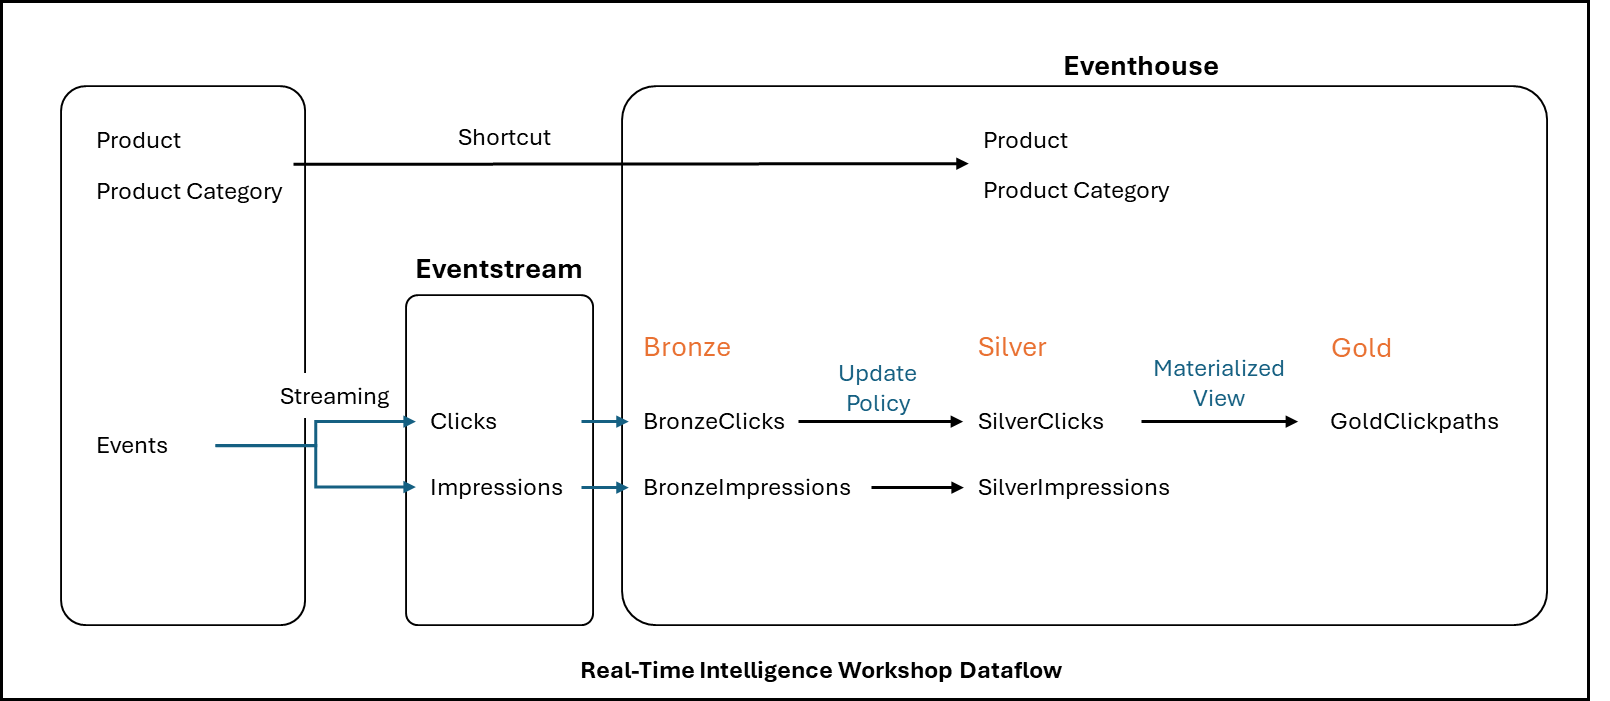
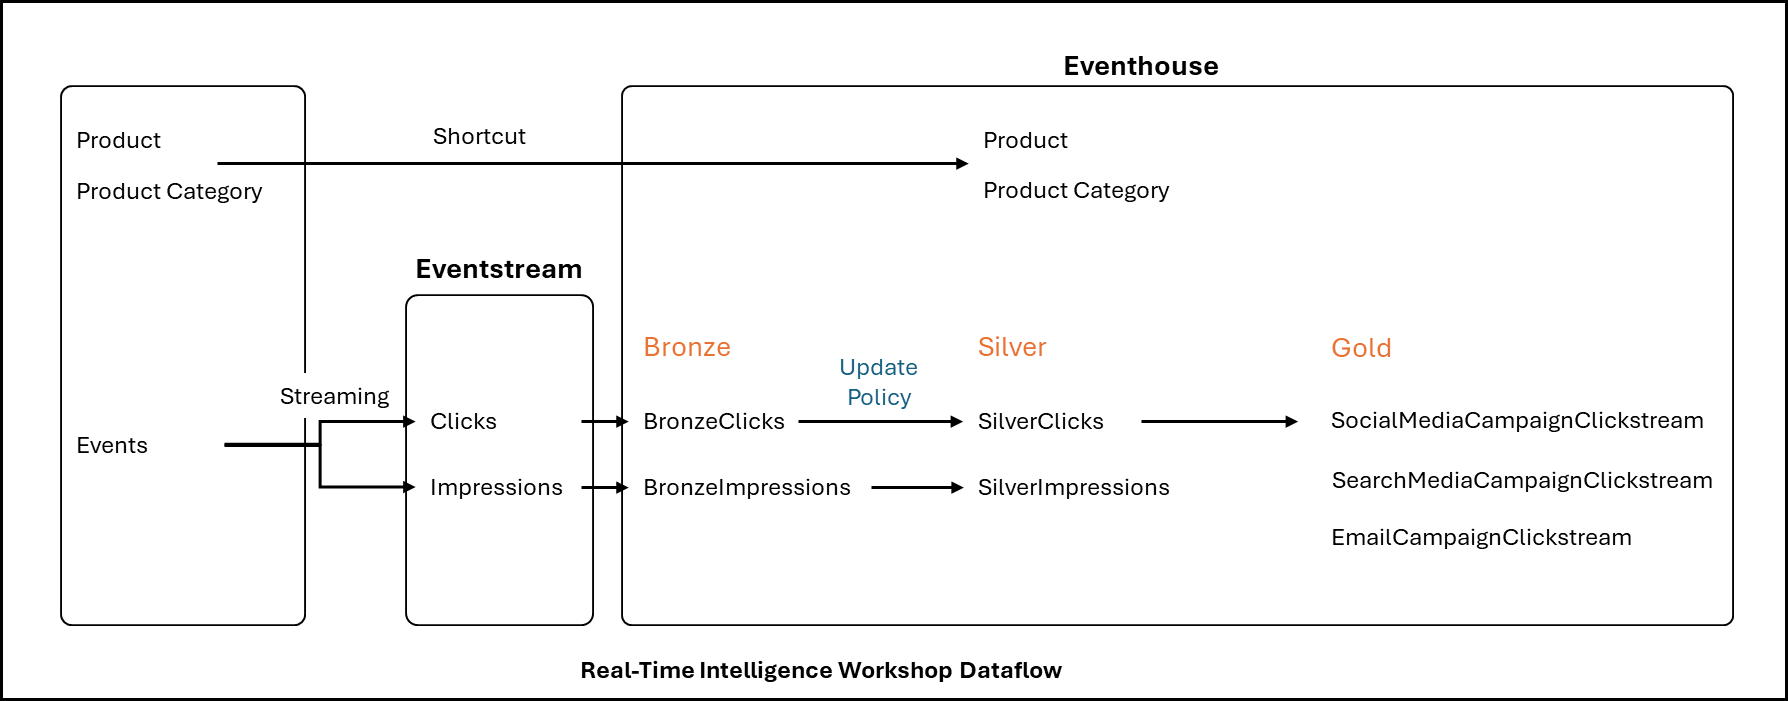
Formatting changes

diff --git a/docs/workshop.md b/docs/workshop.md
@@ -238,19 +238,20 @@ Now with Data Activator (Reflex), we can also set alerts on Real-time Dashboards
 | **Product**         | **Shortcut** to OneLake delta table | Products, including descriptions and prices. |
 | **ProductCategory** | **Shortcut** to OneLake delta table | Product category.                            |
 
-### Functions
+### Transformation Functions
 
 | Function                  | Description                                                                 |
 | ------------------------- | --------------------------------------------------------------------------- |
 | **expandClickpath**       | Expands JSON array of dictonaries to transform into strongly typed columns. |
 | **expandRelatedProducts** | Expands JSON array of dictonaries to transform into strongly typed columns  |
 
-### Materialized-Views
+### Functions as Views
 
 | View            | Origin                  | Description                                                                                                                   |
 | --------------- | ----------------------- | ----------------------------------------------------------------------------------------------------------------------------- |
-| **ToBeDefined** | Eventhouse silver table | Materialized view showing only the **latest** changes in the source table showing how to handle duplicate or updated records. |
-| **ToBeDefined** | Eventhouse silver table | Materialized view showing only the **latest** changes in the source table showing how to handle duplicate or updated records. |
+| **SocialMediaCampaignClickstream** | Eventhouse gold function | Function showing clickstream originating due to social media campaigns |
+| **SearchMediaCampaignClickstream** | Eventhouse gold function | Function showing clickstream originating due to campaigns on search engines |
+| **EmailCampaignClickstream** | Eventhouse gold function | Function showing clickstream originating due to email campaigns |
 
 ---
 
@@ -259,10 +260,23 @@ Now with Data Activator (Reflex), we can also set alerts on Real-time Dashboards
 - Recommended material to review (at least one) prior to this lab, however it's not required:
   - [Write your first query with Kusto](https://aka.ms/learn.kql)
   - [Implement a Real-Time Intelligence Solution Tutorial](https://learn.microsoft.com/fabric/real-time-intelligence/tutorial-introduction)
+  - To complete the lab you **must** have access to a [Microsoft Fabric](<https://www.microsoft.com/microsoft-fabric/getting-started>) workspace with at least Contributor permissions.
 
-| :heavy_exclamation_mark: **Important**                                                                                                                                                |
-| :------------------------------------------------------------------------------------------------------------------------------------------------------------------------------------ |
-| **To complete the lab you **must** have access to a [Microsoft Fabric](https://www.microsoft.com/microsoft-fabric/getting-started) workspace with at least Contributor permissions.** |
+### Trial Tenant for the Lab
+If you need a new Trial Tenant to complete the lab, suggest to register a new Outlook.com email and follow these steps:
+1. [Provision Fabric Trial Tenant](<https://github.com/microsoft/FabricRTIWorkshop/tree/main/trialtenant>) - see document and powershell script to setup a lab admin.
+   - 25 workspaces with access to 25 logins will be created automatically (one workspace per user).
+   - Participants should create items in the workspace designated to their own login.
+   - If more than 25 accounts are necessary, additional Trial Tenants can be provisioned by repeating this process again. Also, participants can share the lab credentials and use folders in their workspaces. 
+3. [Office 365 E5 Trial](<https://blog.fabric.microsoft.com/blog/accessing-microsoft-fabric-for-developers-startups-and-enterprises>). ⚠ Make sure to disable recurring billing, otherwise your credit card will be charged for Office E5.
+4. The "LabAdmin" credential should be used by the lab proctor.
+5. The "LabAdmin" can have the pre-built lab items for Lab Users 01-24 to reference as a cheat-sheet. To do so, grant Users 01-24 viewer permission to the "LabAdmin" workspace.
+![WorkspaceManageAccess](assets/WorkspaceManageAccess.png "Workspace Manage Access")
+
+### Enable Real-Time Dashboards (preview)
+1. While logged in as Tenant Admin or Capacity Admin to Fabric, click the gear icon on the top right of the  page to open Admin Portal. Note, the "LabAdmin" account will have access to enable this for the Trial Tenant described above.
+2. In the [Tenant Settings](<https://app.fabric.microsoft.com/admin-portal/tenantSettings?experience=kusto>), search for "dashboards", click the toggle to **Enabled**, click **Apply**.
+![EnableRTDashboards](assets/EnableRTDashboards.png "Enable Real-Time Dashboards")
 
 ### Fabric tenant and capacity for the tutorial
 
@@ -274,9 +288,10 @@ For the purpose of this tutorial, speakers/proctors will provide a tenant with c
 
 ### 1. Login to Lab Environment
 
-| :heavy_exclamation_mark: **Important**                                                                                  |
-| :---------------------------------------------------------------------------------------------------------------------- |
-| **Do **not** use an InPrivate browser window. Recommend using a Personal browser window to successfully run this lab.** |
+<div class="info" data-title="Note">
+  
+> Do **not** use an InPrivate browser window. Recommend using a Personal browser window to successfully run this lab.
+</div>
 
 1. Open [app.fabric.microsoft.com](https://app.fabric.microsoft.com/) in your browser.
 
@@ -291,10 +306,7 @@ For the purpose of this tutorial, speakers/proctors will provide a tenant with c
 ### 2. Fabric Workspace
 
 1. Click **Workspaces** on the left menu and open the Fabric Workspace **designated** to your login by the Fabric Trial Tenant.
-
-| :notebook: **Note**                                                                  |
-| :----------------------------------------------------------------------------------- |
-| **(Optional) If using your own Fabric Tenant, create a new workspace for this lab.** |
+2. (Optional) If using your own Fabric Tenant, create a new workspace for this lab. 
 
 1. To create a new Workspace click on **Workspaces** in the left pane and then click on **+ New Workspace** in the popup window.
 
@@ -304,9 +316,9 @@ For the purpose of this tutorial, speakers/proctors will provide a tenant with c
 
    ![alt text](assets/image_task02_step02.png)
 
-   | :notebook: **Note**                                                                                                                                                                         |
-   | :------------------------------------------------------------------------------------------------------------------------------------------------------------------------------------------ |
-   | **If the name that you would like to use for your workspace is still available this will be shown below the input box for **Name**. Workspace Names have to be unique in a Fabric tenant.** |
+  <div class="info" data-title="Note">
+  > If the name that you would like to use for your workspace is still available this will be shown below the input box for **Name**. Workspace Names have to be unique in a Fabric tenant.
+  </div>
 
 3. Check if the option **Trial** is checked. If so click on **Apply**.
 
